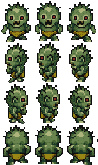
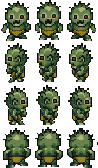
Creature Animations
- Updated creature sprites (zombie)
- Added creature movement animations (creation, play)

diff --git a/src/creature.js b/src/creature.js
@@ -2,8 +2,6 @@ export default class Creature{
 
 	constructor(scene, x, y, stats){
 		this.scene 	= scene;
-		this.x 		= x;
-		this.y 		= y;
 		this.sprite = scene.physics.add.sprite(x, y, 'zombie');
 		this.stats 	= stats;
 		this.scale 	= this.getScaleFromStats(stats);
@@ -28,6 +26,35 @@ export default class Creature{
 	moveTowards(renderObj){
 		let pxSpeed = this.getSpeedInPx();
 		this.scene.physics.moveToObject(this.sprite, renderObj, pxSpeed);
+		this.animateMovement(renderObj);
+	}
+
+	animateMovement(renderObj){
+		let direction = this.getMovementDirection(renderObj);
+      	this.sprite.anims.play('zombie-' + direction, true);
+	}
+
+	getMovementDirection(renderObj){
+		let deltaX = renderObj.x - this.sprite.x;
+		let deltaY = renderObj.y - this.sprite.y;
+		
+		if(Math.abs(deltaX) <= Math.abs(deltaY) && deltaY < 0){
+			return 'up';
+		}
+
+		if(Math.abs(deltaX) <= Math.abs(deltaY) && deltaY > 0){
+			return 'down';
+		}
+
+		if (Math.abs(deltaY) <= Math.abs(deltaX) && deltaX > 0) {
+			return 'right';
+		}
+
+		if (Math.abs(deltaY) <= Math.abs(deltaX) && deltaX < 0) {
+			return 'left';
+		}
+
+		return 'down';
 	}
 
 	getSpeedInPx(){

diff --git a/src/index.js b/src/index.js
@@ -104,6 +104,34 @@ function create() {
 
     this.physics.add.overlap(player, stars, collectStar, null, this);
 
+    this.anims.create({
+        key: 'zombie-down',
+        frames: this.anims.generateFrameNumbers('zombie', { start: 0, end: 2 }),
+        frameRate: 10,
+        repeat: -1
+    });
+
+    this.anims.create({
+        key: 'zombie-left',
+        frames: this.anims.generateFrameNumbers('zombie', { start: 3, end: 5 }),
+        frameRate: 10,
+        repeat: -1
+    });
+
+    this.anims.create({
+        key: 'zombie-right',
+        frames: this.anims.generateFrameNumbers('zombie', { start: 6, end: 8 }),
+        frameRate: 10,
+        repeat: -1
+    });
+
+    this.anims.create({
+        key: 'zombie-up',
+        frames: this.anims.generateFrameNumbers('zombie', { start: 9, end: 11 }),
+        frameRate: 10,
+        repeat: -1
+    });
+
     let creatures = [];
 
     for (var i = 0; i < 10; i++) {
